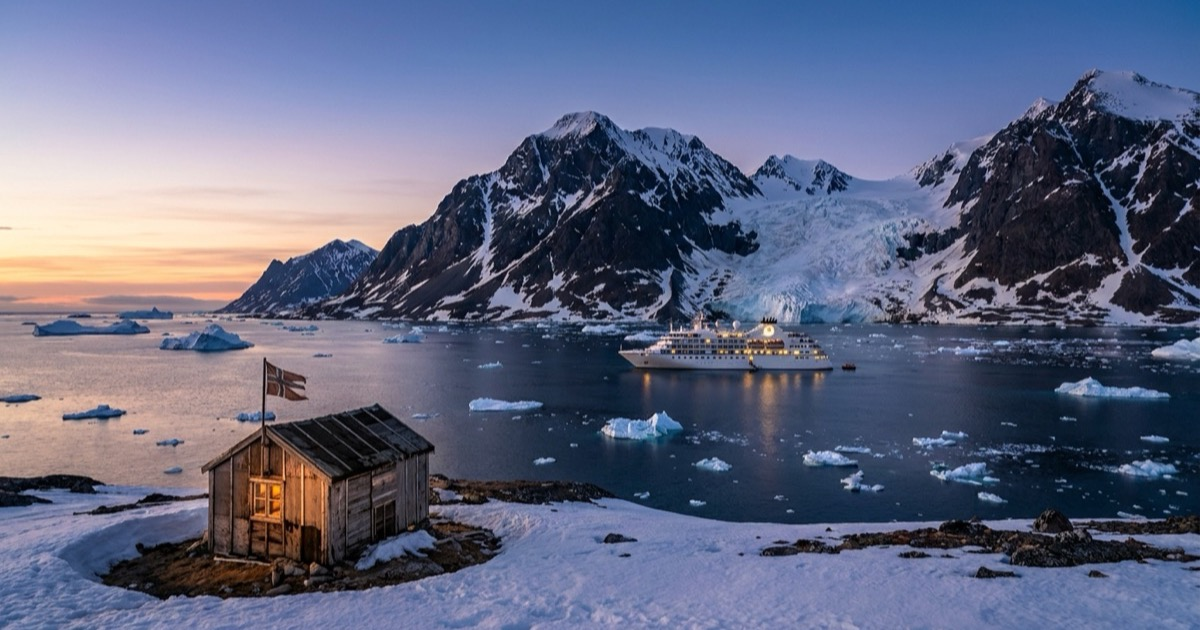
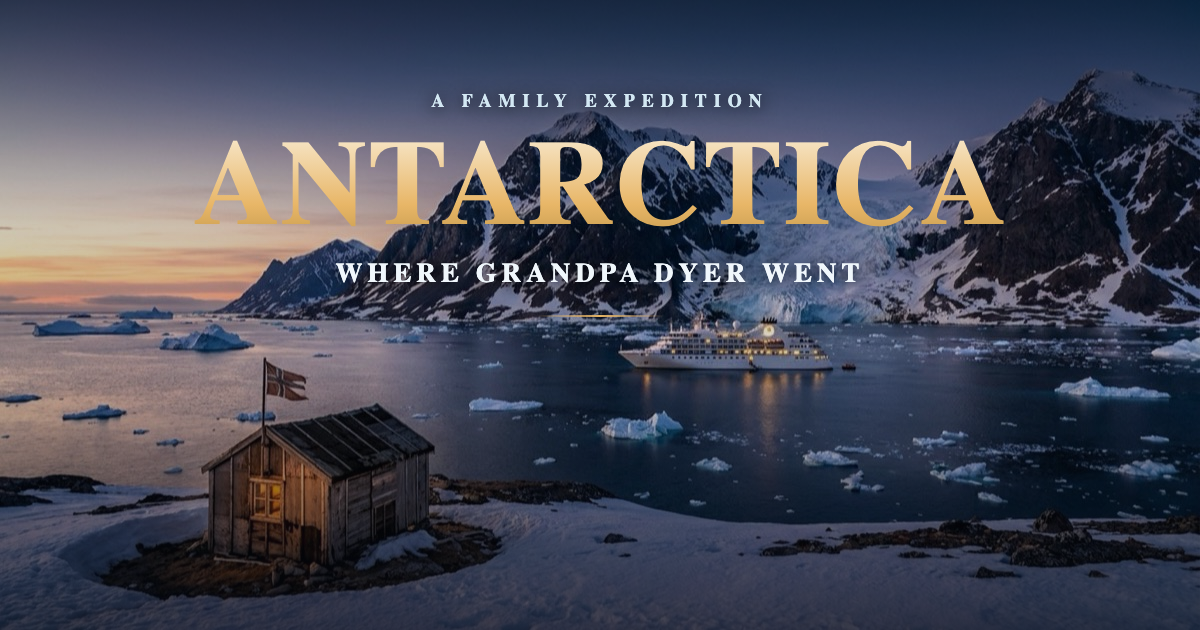
Antarctica page: titled share thumbnail, real explorer photo, bigger themed maps, softer tone, more links
- New baked-in title card for the social/share thumbnail (matches the Japan card style); hero now uses a clean untitled copy.
- Added a real period photo of James Glenn Dyer as an explorer (from the family usas1939.org archive).
- Maps: kept OpenStreetMap, dark-themed to match the page, enlarged with a big featured Marguerite Bay map + larger gateway maps, each with external links.
- Reworked the feasibility section so it reads as encouraging, not framing Nancy as frail.
- Removed 'planning' language; reframed as just throwing ideas around.
- Added a categorized external-link directory (his life, the places, operators & ships, gateways) plus many inline links.

diff --git a/antarctica-2027.html b/antarctica-2027.html
@@ -74,7 +74,7 @@
   }
   .hero-img{
     position:absolute; inset:0;
-    background:url('antarctica-og.png') center 38%/cover no-repeat;
+    background:url('antarctica-hero.png') center 38%/cover no-repeat;
     transform:scale(1.04);
   }
   .hero-img::after{
@@ -134,7 +134,20 @@
   .tl-year{font-family:'JetBrains Mono',monospace; font-size:13px; color:var(--gold); font-weight:500}
   .tl-head{font-weight:600; font-size:16px}
   .tl-body{font-size:14.5px; color:var(--text-dim); max-height:0; overflow:hidden; transition:max-height .35s ease, margin .35s; }
-  .tl-item.open .tl-body{max-height:240px; margin-top:6px}
+  .tl-item.open .tl-body{max-height:260px; margin-top:6px}
+  .tl-body a{color:var(--ice-light)}
+
+  /* explorer photo */
+  .explorer{margin:26px 0 6px; display:flex; gap:20px; align-items:center; flex-wrap:wrap;
+    background:linear-gradient(160deg,#0e1726,#0b1320); border:1px solid var(--border-bright);
+    border-radius:18px; padding:16px; box-shadow:var(--shadow)}
+  .explorer .frame{flex:0 0 auto; background:#f4efe4; padding:10px 10px 14px; border-radius:4px;
+    box-shadow:0 10px 30px rgba(0,0,0,.5); transform:rotate(-1.4deg)}
+  .explorer .frame img{display:block; width:230px; height:auto; border-radius:2px; filter:contrast(1.05) brightness(1.02)}
+  .explorer figcaption{flex:1; min-width:220px; font-size:14px; color:var(--text-dim); line-height:1.6}
+  .explorer figcaption .nm{display:block; font-weight:700; color:var(--text); font-size:16px; margin-bottom:4px}
+  .explorer figcaption a{color:var(--ice-light)}
+  @media (max-width:560px){ .explorer{justify-content:center} .explorer .frame img{width:200px} }
 
   .factstrip{display:grid; grid-template-columns:repeat(auto-fit,minmax(180px,1fr)); gap:14px; margin-top:22px}
   .fact{background:var(--bg-elev); border:1px solid var(--border); border-radius:14px; padding:16px 18px}
@@ -231,12 +244,19 @@
   .feas li::before{content:''; position:absolute; left:2px; top:11px; width:8px; height:8px; border-radius:50%; background:var(--ice)}
 
   /* ---------- MAPS ---------- */
-  .maps{display:grid; grid-template-columns:repeat(auto-fit,minmax(280px,1fr)); gap:16px; margin-top:20px}
-  .mapcard{background:var(--card); border:1px solid var(--border); border-radius:16px; overflow:hidden}
-  .mapcard .cap{padding:13px 16px; display:flex; justify-content:space-between; align-items:center; gap:8px}
-  .mapcard .cap b{font-size:14.5px}
-  .mapcard .cap small{font-family:'JetBrains Mono',monospace; font-size:11px; color:var(--gold)}
-  .mapcard iframe{width:100%; height:240px; border:0; display:block; filter:saturate(.9) brightness(.92)}
+  .maps{display:grid; grid-template-columns:repeat(auto-fit,minmax(300px,1fr)); gap:18px; margin-top:18px}
+  .mapcard{background:var(--card); border:1px solid var(--border-bright); border-radius:18px; overflow:hidden; box-shadow:var(--shadow)}
+  .mapcard.feature{margin-top:20px}
+  .mapcard .cap{padding:16px 18px; display:flex; justify-content:space-between; align-items:center; gap:8px}
+  .mapcard .cap b{font-size:16px}
+  .mapcard.feature .cap b{font-size:18px}
+  .mapcard .cap small{font-family:'JetBrains Mono',monospace; font-size:11.5px; color:var(--gold)}
+  /* dark-theme the OpenStreetMap tiles to match the page */
+  .mapcard iframe{width:100%; height:340px; border:0; display:block;
+    filter:invert(0.92) hue-rotate(180deg) saturate(0.8) contrast(0.92) brightness(1.05);}
+  .mapcard.feature iframe{height:520px}
+  .capfoot{padding:11px 18px; border-top:1px solid var(--border); font-size:12.5px; color:var(--text-faint); display:flex; gap:14px; flex-wrap:wrap}
+  .capfoot a{color:var(--ice)}
 
   /* ---------- CALLOUT ---------- */
   .callout{border-left:3px solid var(--gold); background:var(--gold-glow); border-radius:0 14px 14px 0; padding:16px 20px; margin-top:18px; font-size:15px; color:#f0e3cc}
@@ -247,6 +267,14 @@
   .status{display:flex; align-items:center; gap:14px; background:var(--card); border:1px solid var(--border); border-radius:16px; padding:18px 20px; margin-top:18px}
   .status .dot{width:12px; height:12px; border-radius:50%; background:var(--warn); box-shadow:0 0 0 4px rgba(255,174,69,.18); flex-shrink:0; animation:pulse 2s infinite}
   @keyframes pulse{0%,100%{opacity:1}50%{opacity:.4}}
+
+  /* ---------- LINK DIRECTORY ---------- */
+  .linkgrid{display:grid; grid-template-columns:repeat(auto-fit,minmax(240px,1fr)); gap:18px; margin-top:22px}
+  .linkcol{background:var(--card); border:1px solid var(--border); border-radius:16px; padding:18px 20px}
+  .linkcol h4{font-size:14px; font-weight:700; margin-bottom:12px; color:var(--text)}
+  .linkcol a{display:block; font-size:13.5px; color:var(--ice-light); padding:5px 0; border-bottom:1px solid var(--border); line-height:1.4}
+  .linkcol a:last-child{border-bottom:0}
+  .linkcol a:hover{color:var(--ice); padding-left:4px; transition:.15s}
 
   .footer{margin-top:64px; padding-top:26px; border-top:1px solid var(--border); color:var(--text-faint); font-size:13px}
   .footer a{color:var(--text-dim)}
@@ -267,7 +295,7 @@
 <header class="hero">
   <div class="hero-img"></div>
   <div class="hero-inner">
-    <span class="eyebrow">🧭 Family Expedition · Planning</span>
+    <span class="eyebrow">🧭 A Family Daydream · Just Throwing Ideas Out</span>
     <h1>Taking Grandma Nancy<br>to <span class="accent">where her father went</span></h1>
     <p>In 1939, James Glenn Dyer sailed south with Admiral Byrd and wintered on a small island in Marguerite Bay. Eighty-some years later, his daughter is 85. This page is how we get her there, and the gentler ways to simply stand on Antarctica together.</p>
   </div>
@@ -280,6 +308,14 @@
     <div class="sec-label">The man we're chasing</div>
     <h2>James Glenn Dyer (1908–1995)</h2>
     <p class="lead">Surveyor, cartographer, and navigator. He didn't just visit Antarctica, he helped map a piece of it that still carries his name. Tap any moment to expand it.</p>
+
+    <figure class="explorer">
+      <div class="frame"><img src="dyer-explorer.jpg" alt="James Glenn Dyer, bearded, photographed during his Antarctic years in front of an expedition building"></div>
+      <figcaption>
+        <span class="nm">James Glenn Dyer, polar explorer</span>
+        Navigator and cartographer of the <a href="https://en.wikipedia.org/wiki/United_States_Antarctic_Service_Expedition" target="_blank" rel="noopener">U.S. Antarctic Service Expedition</a> (1939&ndash;41). This photo is from the family's expedition archive at <a href="https://usas1939.org/j.glenn.dyer/" target="_blank" rel="noopener">usas1939.org</a>, the memorial site built by his son John. His full story and journals live there.
+      </figcaption>
+    </figure>
 
     <div class="timeline" id="timeline">
       <div class="tl-item open">
@@ -298,13 +334,13 @@
         <div class="tl-dot"></div>
         <div class="tl-year">1939–41 · Antarctica</div>
         <div class="tl-head">Navigator &amp; cartographer, U.S. Antarctic Service Expedition</div>
-        <div class="tl-body">Answered Admiral Byrd's call. Wintered at <b>East Base on Stonington Island</b> in Marguerite Bay, and led the southeast sledging party. Survived a fall into a crevasse and a three-day storm on the high plateau.</div>
+        <div class="tl-body">Answered <a href="https://en.wikipedia.org/wiki/Richard_E._Byrd" target="_blank" rel="noopener">Admiral Byrd</a>'s call. Wintered at <b><a href="https://en.wikipedia.org/wiki/East_Base" target="_blank" rel="noopener">East Base</a> on <a href="https://en.wikipedia.org/wiki/Stonington_Island" target="_blank" rel="noopener">Stonington Island</a></b> in <a href="https://en.wikipedia.org/wiki/Marguerite_Bay" target="_blank" rel="noopener">Marguerite Bay</a>, and led the southeast sledging party. Survived a fall into a crevasse and a three-day storm on the high plateau.</div>
       </div>
       <div class="tl-item">
         <div class="tl-dot">⛰</div>
         <div class="tl-year">Forever · Palmer Land</div>
         <div class="tl-head">The Dyer Plateau is named for him</div>
-        <div class="tl-body">The broad ice upland he sledged across (70°30′S, 65°0′W) was named in his honor. It is interior Antarctica, reachable only by fly-in expedition, so it isn't part of any cruise. The bay he wintered in, however, is.</div>
+        <div class="tl-body">The broad ice upland he sledged across (70°30′S, 65°0′W) was named in his honor, the <a href="https://en.wikipedia.org/wiki/Dyer_Plateau" target="_blank" rel="noopener">Dyer Plateau</a>. It is interior Antarctica, reachable only by fly-in expedition, so it isn't part of any cruise. The bay he wintered in, however, is. (<a href="https://data.aad.gov.au/aadc/gaz/display_name.cfm?gaz_id=124089" target="_blank" rel="noopener">gazetteer entry</a>)</div>
       </div>
       <div class="tl-item">
         <div class="tl-dot"></div>
@@ -316,7 +352,7 @@
         <div class="tl-dot"></div>
         <div class="tl-year">1956–74 · Weather Bureau</div>
         <div class="tl-head">Returned south, then led Overseas Operations</div>
-        <div class="tl-body">Back to Antarctica in 1956–57 as a U.S. observer during the International Geophysical Year. Retired in 1974 as Director of Overseas Operations. Awarded the Antarctic Service Medal.</div>
+        <div class="tl-body">Back to Antarctica in 1956–57 as a U.S. observer during the <a href="https://en.wikipedia.org/wiki/International_Geophysical_Year" target="_blank" rel="noopener">International Geophysical Year</a>. Retired in 1974 as Director of Overseas Operations. Awarded the <a href="https://en.wikipedia.org/wiki/Antarctica_Service_Medal" target="_blank" rel="noopener">Antarctic Service Medal</a>.</div>
       </div>
       <div class="tl-item">
         <div class="tl-dot">🤍</div>
@@ -327,9 +363,9 @@
     </div>
 
     <div class="factstrip">
-      <div class="fact"><div class="k">His island</div><div class="v"><b>Stonington Island</b>, in Marguerite Bay, below the Antarctic Circle.</div></div>
-      <div class="fact"><div class="k">His base</div><div class="v"><b>East Base</b>, a U.S. National Historic Site, commissioned by FDR in 1939.</div></div>
-      <div class="fact"><div class="k">The bay's name</div><div class="v">Charcot named <b>Marguerite Bay</b> in 1909 for his wife. Decades later, Dyer wintered in it.</div></div>
+      <div class="fact"><div class="k">His island</div><div class="v"><b><a href="https://en.wikipedia.org/wiki/Stonington_Island" target="_blank" rel="noopener">Stonington Island</a></b>, in Marguerite Bay, below the <a href="https://en.wikipedia.org/wiki/Antarctic_Circle" target="_blank" rel="noopener">Antarctic Circle</a>.</div></div>
+      <div class="fact"><div class="k">His base</div><div class="v"><b><a href="https://en.wikipedia.org/wiki/East_Base" target="_blank" rel="noopener">East Base</a></b>, a U.S. National Historic Site (<a href="https://www.ats.aq/devph/en/apa-database/130" target="_blank" rel="noopener">HSM 55</a>), commissioned by FDR in 1939.</div></div>
+      <div class="fact"><div class="k">The bay's name</div><div class="v"><a href="https://en.wikipedia.org/wiki/Jean-Baptiste_Charcot" target="_blank" rel="noopener">Charcot</a> named <b><a href="https://en.wikipedia.org/wiki/Marguerite_Bay" target="_blank" rel="noopener">Marguerite Bay</a></b> in 1909 for his wife. Decades later, Dyer wintered in it.</div></div>
       <div class="fact"><div class="k">Grandma Nancy</div><div class="v">His daughter, born Dec 6, <b>1940</b>. She is <b>85</b> now.</div></div>
     </div>
   </section>
@@ -438,6 +474,7 @@
             <div><div class="d">DAYS 15–22</div>Bellingshausen / Peter I I.</div>
             <div><div class="d">DAYS 23–25</div>Return to Ushuaia</div>
           </div>
+          <div style="margin-top:14px"><a href="https://oceanwide-expeditions.com/antarctica/cruises/otl27-27-bellingshausen-sea-peter-i-island-ellsworth-land-incl-helicopters" target="_blank" rel="noopener">Full voyage details, dates &amp; pricing ↗</a> &nbsp;·&nbsp; <a href="https://oceanwide-expeditions.com/our-fleet/m-v-ortelius" target="_blank" rel="noopener">about m/v Ortelius ↗</a></div>
         </div></div>
       </div>
 
@@ -601,35 +638,35 @@
 
   <!-- ===================== FEASIBILITY ===================== -->
   <section id="nancy">
-    <div class="sec-label">The real question</div>
-    <h2>Is this realistic for an 85-year-old?</h2>
-    <p class="lead">Short answer: possibly yes, but her doctor effectively makes the call. Age alone doesn't disqualify her, fitness and medical clearance do.</p>
+    <div class="sec-label">Good to know</div>
+    <h2>What a trip like this involves</h2>
+    <p class="lead">Antarctica is well within reach for adventurous travelers in their 80s, and Nancy comes from explorer stock. What matters is matching the itinerary to the trip we want, not a number. Here's the honest picture so we go in prepared and just enjoy it.</p>
     <div class="feas">
       <div class="card">
-        <h3>✅ In her favor</h3>
+        <h3>✅ Encouraging</h3>
         <ul>
-          <li>No operator sets an upper age limit. Oceanwide explicitly has none.</li>
-          <li>Aurora Expeditions has carried passengers up to age 92.</li>
-          <li>Fly-cruises remove the single hardest part, the 2-day Drake crossing.</li>
-          <li>Ships carry a doctor and a small medical clinic onboard.</li>
+          <li>No operator sets an upper age limit. <a href="https://oceanwide-expeditions.com/faq/what-is-the-age-restriction-on-the-voyages-of-oceanwide-expeditions" target="_blank" rel="noopener">Oceanwide</a> explicitly has none.</li>
+          <li><a href="https://www.aurora-expeditions.com/destination/antarctica-cruises/health-fitness-age-limits" target="_blank" rel="noopener">Aurora Expeditions</a> regularly welcomes guests in their 80s and has sailed travelers up to 92.</li>
+          <li>Fly-cruises skip the long open-ocean Drake crossing entirely, a calm, easy way in.</li>
+          <li>Every expedition ship carries a doctor and a medical clinic onboard.</li>
         </ul>
       </div>
       <div class="card">
-        <h3>⚠ The hurdles</h3>
+        <h3>📋 Worth knowing</h3>
         <ul>
-          <li>A signed medical form is due 45–90 days before departure, sometimes by a GP.</li>
-          <li>She must manage a steep gangway, get in and out of a Zodiac, and walk on wet, snowy, rocky ground.</li>
-          <li>The deep-south Stonington voyages are the longest and roughest, highest demand of all.</li>
-          <li>Remote evacuation is slow and costly, comprehensive insurance is mandatory.</li>
+          <li>Operators ask everyone for a simple medical form a few weeks before sailing.</li>
+          <li>Landings mean walking down a gangway, stepping into a Zodiac, and strolling on snow or rock, all at an easy pace, with the crew assisting.</li>
+          <li>The deep-south Stonington voyages are the longest and most rugged of the options.</li>
+          <li>Thorough travel and evacuation insurance is standard for every Antarctic traveler.</li>
         </ul>
       </div>
       <div class="card">
-        <h3>💡 How to stack the deck</h3>
+        <h3>💡 Ways to keep it easy</h3>
         <ul>
-          <li>Get her cleared by her doctor early, before committing.</li>
-          <li>Book a private, accessible cabin near the elevator.</li>
-          <li>Bring a younger family member as her dedicated helper for landings.</li>
-          <li>If the deep-south voyage is too much, the Polar Circle fly-cruise is a meaningful middle.</li>
+          <li>Pick the itinerary that matches the energy we're after, there's a comfortable option at every level.</li>
+          <li>Book a roomy private cabin near the elevator for the most relaxed trip.</li>
+          <li>Travel as a family so we're together for every landing and every view.</li>
+          <li>If we'd rather keep it laid-back, the <a href="https://www.antarctica21.com/our-expeditions/polar-circle-air-cruise" target="_blank" rel="noopener">Polar Circle fly-cruise</a> is a lovely, lower-key way to go deep south.</li>
         </ul>
       </div>
     </div>
@@ -639,19 +676,33 @@
   <section id="maps">
     <div class="sec-label">Seeing it</div>
     <h2>The places on a map</h2>
-    <p class="lead">His island, and the two gateways we'd fly into. Drag and zoom each.</p>
-    <div class="maps">
-      <div class="mapcard">
-        <div class="cap"><b>🎯 Stonington I. &amp; Marguerite Bay</b><small>68°11′S 67°00′W</small></div>
-        <iframe loading="lazy" title="Stonington Island and Marguerite Bay" src="https://www.openstreetmap.org/export/embed.html?bbox=-69.6%2C-68.85%2C-65.2%2C-67.55&amp;layer=mapnik&amp;marker=-68.18%2C-67.0"></iframe>
+    <p class="lead">His island, and the two gateways we'd fly into. Drag and zoom each. The big one is Marguerite Bay, the deep-south bay where his base sat.</p>
+    <div class="mapcard feature">
+      <div class="cap"><b>🎯 Stonington Island &amp; East Base</b><small>Marguerite Bay · 68°11′S 67°00′W</small></div>
+      <iframe loading="lazy" title="Stonington Island and Marguerite Bay" src="https://www.openstreetmap.org/export/embed.html?bbox=-70.4%2C-69.0%2C-64.4%2C-67.3&amp;layer=mapnik&amp;marker=-68.18%2C-67.0"></iframe>
+      <div class="capfoot">
+        <a href="https://www.openstreetmap.org/?mlat=-68.18&amp;mlon=-67.0#map=8/-68.18/-67.0" target="_blank" rel="noopener">Open in OpenStreetMap ↗</a>
+        <a href="https://en.wikipedia.org/wiki/Stonington_Island" target="_blank" rel="noopener">Stonington Island ↗</a>
+        <a href="https://en.wikipedia.org/wiki/East_Base" target="_blank" rel="noopener">East Base ↗</a>
+        <a href="https://www.ats.aq/devph/en/apa-database/130" target="_blank" rel="noopener">Historic Site &amp; Monument 55 ↗</a>
       </div>
+    </div>
+    <div class="maps">
       <div class="mapcard">
         <div class="cap"><b>🚢 Ushuaia, Argentina</b><small>sail gateway</small></div>
         <iframe loading="lazy" title="Ushuaia" src="https://www.openstreetmap.org/export/embed.html?bbox=-68.55%2C-54.92%2C-68.10%2C-54.72&amp;layer=mapnik&amp;marker=-54.8019%2C-68.303"></iframe>
+        <div class="capfoot">
+          <a href="https://www.openstreetmap.org/?mlat=-54.8019&amp;mlon=-68.303#map=12/-54.8019/-68.303" target="_blank" rel="noopener">Open in OpenStreetMap ↗</a>
+          <a href="https://en.wikipedia.org/wiki/Ushuaia" target="_blank" rel="noopener">About Ushuaia ↗</a>
+        </div>
       </div>
       <div class="mapcard">
         <div class="cap"><b>✈ Punta Arenas, Chile</b><small>fly gateway</small></div>
         <iframe loading="lazy" title="Punta Arenas" src="https://www.openstreetmap.org/export/embed.html?bbox=-71.10%2C-53.25%2C-70.75%2C-53.07&amp;layer=mapnik&amp;marker=-53.1638%2C-70.9171"></iframe>
+        <div class="capfoot">
+          <a href="https://www.openstreetmap.org/?mlat=-53.1638&amp;mlon=-70.9171#map=12/-53.1638/-70.9171" target="_blank" rel="noopener">Open in OpenStreetMap ↗</a>
+          <a href="https://en.wikipedia.org/wiki/Punta_Arenas" target="_blank" rel="noopener">About Punta Arenas ↗</a>
+        </div>
       </div>
     </div>
     <div class="callout" style="margin-top:20px">
@@ -676,21 +727,62 @@
     </div>
   </section>
 
+  <!-- ===================== LINK DIRECTORY ===================== -->
+  <section id="links">
+    <div class="sec-label">Dig deeper</div>
+    <h2>Everything, linked</h2>
+    <p class="lead">All the rabbit holes in one place, his life, the places, the operators, the ships, and the gateways. Open anything in a new tab.</p>
+    <div class="linkgrid">
+      <div class="linkcol">
+        <h4>🧭 His life &amp; the expedition</h4>
+        <a href="https://usas1939.org/j.glenn.dyer/" target="_blank" rel="noopener">usas1939.org &mdash; J. Glenn Dyer biography</a>
+        <a href="https://usas1939.org/" target="_blank" rel="noopener">usas1939.org &mdash; the whole expedition archive</a>
+        <a href="https://www.deseret.com/1995/3/16/19164527/death-james-glenn-dyer/" target="_blank" rel="noopener">Deseret News &mdash; his 1995 obituary</a>
+        <a href="https://en.wikipedia.org/wiki/United_States_Antarctic_Service_Expedition" target="_blank" rel="noopener">U.S. Antarctic Service Expedition (1939&ndash;41)</a>
+        <a href="https://en.wikipedia.org/wiki/Richard_E._Byrd" target="_blank" rel="noopener">Admiral Richard E. Byrd</a>
+        <a href="https://en.wikipedia.org/wiki/Dyer_Plateau" target="_blank" rel="noopener">Dyer Plateau</a>
+        <a href="https://data.aad.gov.au/aadc/gaz/display_name.cfm?gaz_id=124089" target="_blank" rel="noopener">Dyer Plateau &mdash; official gazetteer</a>
+        <a href="https://en.wikipedia.org/wiki/Antarctica_Service_Medal" target="_blank" rel="noopener">Antarctic Service Medal</a>
+        <a href="https://en.wikipedia.org/wiki/International_Geophysical_Year" target="_blank" rel="noopener">International Geophysical Year</a>
+      </div>
+      <div class="linkcol">
+        <h4>🗺 The places</h4>
+        <a href="https://en.wikipedia.org/wiki/East_Base" target="_blank" rel="noopener">East Base</a>
+        <a href="https://www.ats.aq/devph/en/apa-database/130" target="_blank" rel="noopener">East Base &mdash; Historic Site &amp; Monument 55</a>
+        <a href="https://en.wikipedia.org/wiki/Stonington_Island" target="_blank" rel="noopener">Stonington Island</a>
+        <a href="https://en.wikipedia.org/wiki/Marguerite_Bay" target="_blank" rel="noopener">Marguerite Bay</a>
+        <a href="https://en.wikipedia.org/wiki/Jean-Baptiste_Charcot" target="_blank" rel="noopener">Jean-Baptiste Charcot</a>
+        <a href="https://en.wikipedia.org/wiki/Antarctic_Circle" target="_blank" rel="noopener">The Antarctic Circle</a>
+        <a href="https://en.wikipedia.org/wiki/Antarctic_Peninsula" target="_blank" rel="noopener">Antarctic Peninsula</a>
+        <a href="https://en.wikipedia.org/wiki/Drake_Passage" target="_blank" rel="noopener">Drake Passage</a>
+      </div>
+      <div class="linkcol">
+        <h4>🚢 Operators &amp; ships</h4>
+        <a href="https://oceanwide-expeditions.com/to-do/experiences/east-base" target="_blank" rel="noopener">Oceanwide &mdash; landing at East Base</a>
+        <a href="https://oceanwide-expeditions.com/to-do/experiences/stonington-island" target="_blank" rel="noopener">Oceanwide &mdash; Stonington Island</a>
+        <a href="https://oceanwide-expeditions.com/antarctica/cruises/otl27-27-bellingshausen-sea-peter-i-island-ellsworth-land-incl-helicopters" target="_blank" rel="noopener">Voyage OTL27-27 (Jan 2027, m/v Ortelius)</a>
+        <a href="https://oceanwide-expeditions.com/our-fleet/m-v-ortelius" target="_blank" rel="noopener">m/v Ortelius (the ship)</a>
+        <a href="https://www.antarctica21.com/our-expeditions/classic-antarctica-air-cruise" target="_blank" rel="noopener">Antarctica21 &mdash; Classic Air-Cruise</a>
+        <a href="https://www.antarctica21.com/our-expeditions/polar-circle-air-cruise" target="_blank" rel="noopener">Antarctica21 &mdash; Polar Circle Air-Cruise</a>
+        <a href="https://www.expeditions.com/expeditions/antarctica-cruise-fly-the-drake-passage" target="_blank" rel="noopener">Lindblad / Nat Geo &mdash; Fly the Drake</a>
+        <a href="https://www.silversea.com/destinations/antarctica-fly-cruise.html" target="_blank" rel="noopener">Silversea &mdash; Antarctica fly-cruise</a>
+        <a href="https://www.quarkexpeditions.com/expeditions/antarctic-express-crossing-the-circle" target="_blank" rel="noopener">Quark &mdash; Crossing the Circle</a>
+        <a href="https://www.aurora-expeditions.com/destination/antarctica-cruises/health-fitness-age-limits" target="_blank" rel="noopener">Aurora &mdash; health, fitness &amp; age</a>
+      </div>
+      <div class="linkcol">
+        <h4>✈ Gateways &amp; getting there</h4>
+        <a href="https://en.wikipedia.org/wiki/Ushuaia" target="_blank" rel="noopener">Ushuaia, Argentina</a>
+        <a href="https://en.wikipedia.org/wiki/Punta_Arenas" target="_blank" rel="noopener">Punta Arenas, Chile</a>
+        <a href="https://en.wikipedia.org/wiki/King_George_Island_(South_Shetland_Islands)" target="_blank" rel="noopener">King George Island (the fly-in airstrip)</a>
+        <a href="https://www.openstreetmap.org/?mlat=-68.18&amp;mlon=-67.0#map=8/-68.18/-67.0" target="_blank" rel="noopener">Stonington / Marguerite Bay on the map</a>
+        <a href="https://iaato.org/" target="_blank" rel="noopener">IAATO &mdash; Antarctic tour operator standards</a>
+      </div>
+    </div>
+  </section>
+
   <!-- ===================== FOOTER ===================== -->
   <div class="footer">
-    <div style="margin-bottom:14px"><b style="color:var(--text-dim)">Sources</b></div>
-    <div class="src">
-      <a href="https://oceanwide-expeditions.com/to-do/experiences/east-base">Oceanwide · East Base</a> ·
-      <a href="https://oceanwide-expeditions.com/to-do/experiences/stonington-island">Oceanwide · Stonington Island</a> ·
-      <a href="https://oceanwide-expeditions.com/antarctica/cruises/otl27-27-bellingshausen-sea-peter-i-island-ellsworth-land-incl-helicopters">OTL27-27 voyage</a> ·
-      <a href="https://www.antarctica21.com/journal/introducing-our-2027-28-antarctic-air-cruises">Antarctica21 air-cruises 2027-28</a> ·
-      <a href="https://www.expeditions.com/expeditions/antarctica-cruise-fly-the-drake-passage">Lindblad · Fly the Drake</a> ·
-      <a href="https://www.aurora-expeditions.com/destination/antarctica-cruises/health-fitness-age-limits">Aurora · health/fitness/age</a> ·
-      <a href="https://usas1939.org/j.glenn.dyer/">usas1939.org · J. Glenn Dyer</a> ·
-      <a href="https://en.wikipedia.org/wiki/Dyer_Plateau">Dyer Plateau</a> ·
-      <a href="https://en.wikipedia.org/wiki/Marguerite_Bay">Marguerite Bay</a>
-    </div>
-    <div style="margin-top:18px;color:var(--text-faint)">Built for the Linford / Dyer family · planning page, figures are starting fares and change often · verify with operators before booking.</div>
+    <div style="color:var(--text-faint)">A few ideas for the Linford / Dyer family, nothing booked. Prices are starting fares and change often, so treat everything here as a daydream to check out, not a plan. Verify with operators before anything is real.</div>
   </div>
 
 </div>

diff --git a/index.html b/index.html
@@ -330,7 +330,7 @@ const pages = [
   {
     file: "antarctica-2027.html",
     title: "Antarctica: Where Grandpa Dyer Went",
-    desc: "Planning to take Grandma Nancy to Marguerite Bay, where her father, polar explorer James Glenn Dyer, wintered in 1939–41. Voyage options, the route, maps, costs, and feasibility.",
+    desc: "An idea I'm kicking around: taking Grandma Nancy to Marguerite Bay, where her father, polar explorer James Glenn Dyer, wintered in 1939–41. Voyage options, the route, maps, and costs.",
     icon: "🧭",
     date: "2026-06-02",
     tag: "personal",
